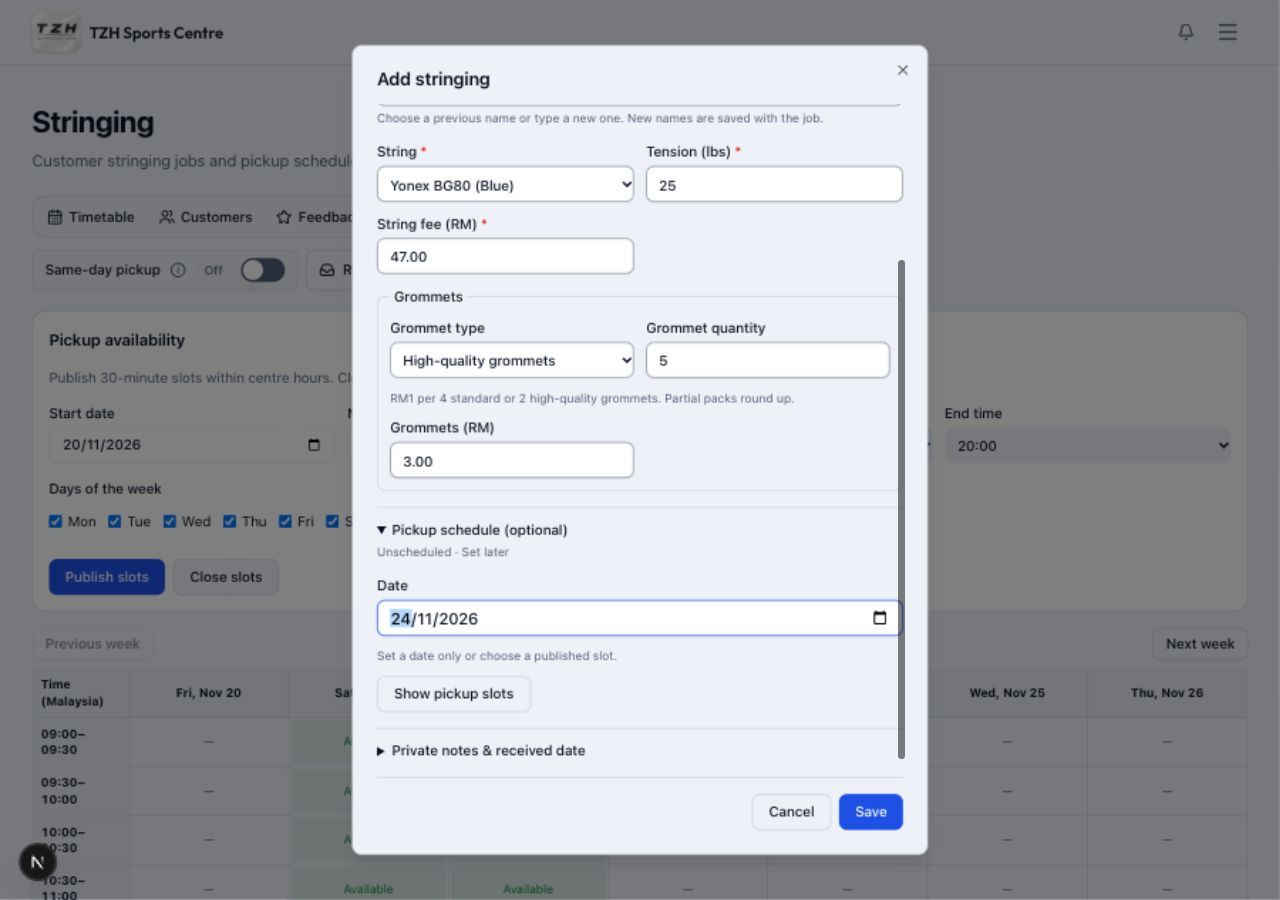
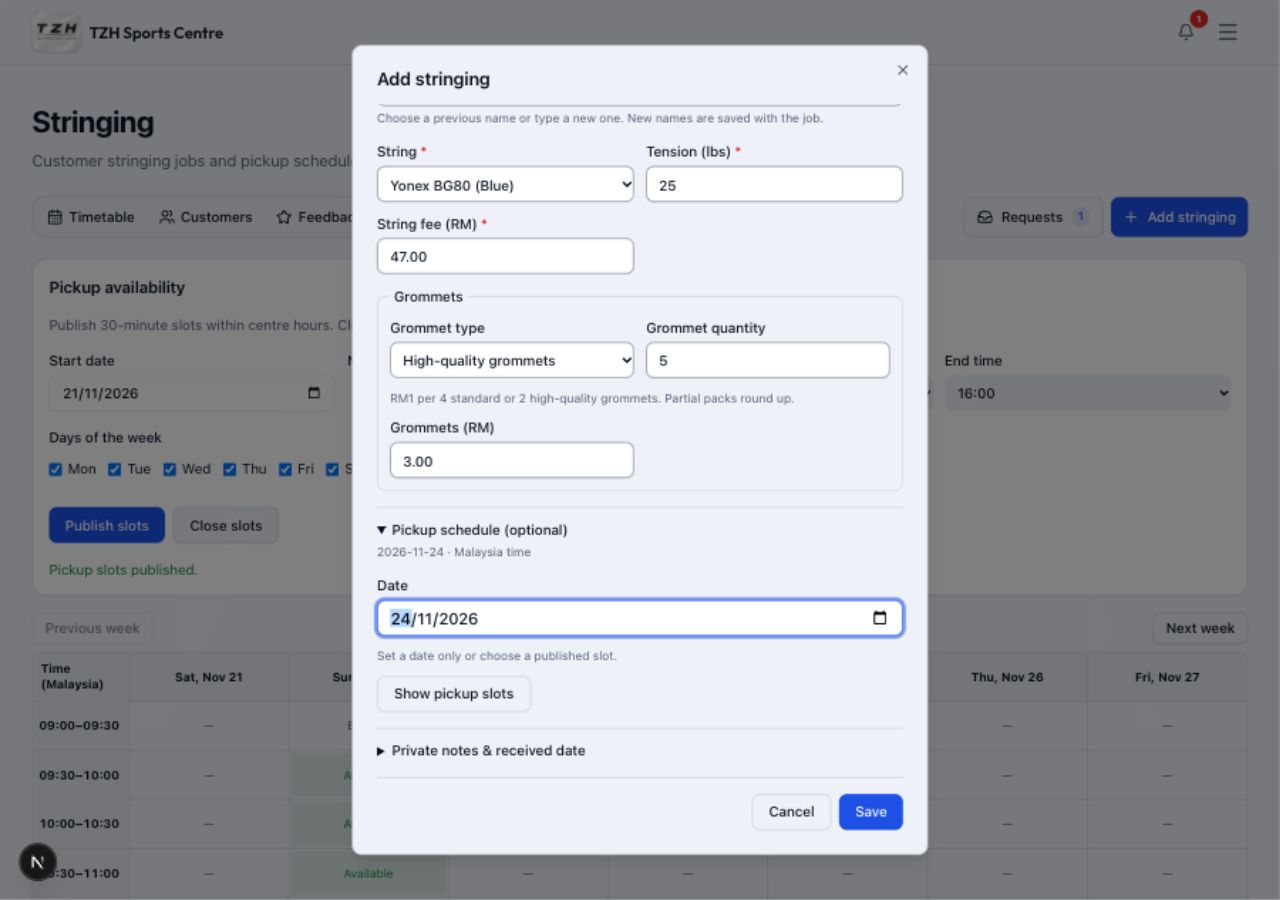
docs: replace same-day switch steps with published slots

diff --git a/website/stringing.md b/website/stringing.md
@@ -8,24 +8,18 @@ Open the step you need. Screenshots use fictional customers. Catalogue autofill,
 For a complete example, follow [one customer visit from request through collection, feedback and follow-up](stringing-complete-visit.md).
 
 <details>
-<summary><strong>Customer requests and same-day pickup</strong></summary>
+<summary><strong>Receive customer requests</strong></summary>
 
 **Incoming rackets.** Open **Requests**, find the customer and racket, then choose **Receive racket**. Check the actual received date, string fee and grommet fee. A matching catalogue string supplies a suggested price. Check the racket to determine the quantity. Choose **Grommet type** and enter **Grommet quantity** to fill the fee. Standard costs RM1 per four and high-quality costs RM1 per two. Partial packs round up. You can enter the actual fee directly. Confirm with **Receive racket**. The job leaves Requests and appears under Received in Customers. Payment is still outstanding.
 
 ![Receipt with catalogue price and calculated grommet fee](../images/stringing/receive-racket-quantity.jpg)
-
-**Same-day pickup today** is visible on every tab. Switch On while open to allow
-later-today customer pickup; switch Off at any time. It ends at closing, never
-carries into tomorrow, and switching Off preserves accepted requests. Publish a slot after the customer’s drop-off time for them to select it.
-
-![Visible mobile same-day policy](../images/stringing/same-day-policy-mobile.jpg)
 
 </details>
 
 <details>
 <summary><strong>Publish pickup availability</strong></summary>
 
-**Admin → Stringing → Pickup availability.** Set the start date, number of days, weekdays and hours. Use **7** days for one week or **14** for two, then select **Publish slots**. Check the grid and use **Next week** to see later dates. Staff and members can choose from the same 30-minute slots. Enter the range and select **Close slots** to stop new reservations in it. Existing pickups stay on the timetable.
+**Admin → Stringing → Pickup availability.** Set the start date, number of days, weekdays and hours. Use **7** days for one week or **14** for two, then select **Publish slots**. Check the grid and use **Next week** to see later dates. Staff and members can choose from the same 30-minute slots. Enter the range and select **Close slots** to stop new reservations in it. Existing pickups stay on the timetable. For same-day stringing, publish a slot that starts after the customer’s drop-off.
 
 ![Publishing two weeks of pickup slots](../images/stringing/pickup-availability-grid.jpg)
 
@@ -244,21 +238,6 @@ For example, **Stage → Requested** shows only requested jobs; **Reset filters*
 restores all visits. **Total spent** remains the customer’s lifetime paid total.
 
 ![Only jobs matching the selected stage](../images/stringing/customer-stage-filter.png)
-
-**Same-day pickup** is a compact On/Off switch in the toolbar. Tap the info icon
-for the daily reset details. **Requests** beside it opens requested jobs.
-
-![Compact same-day control and separate actions](../images/stringing/same-day-toolbar.png)
-
-![Same-day control on mobile](../images/stringing/same-day-toolbar-mobile.png)
-
-The Same-day pickup setting, Requests and Add stringing controls use matching heights. On phones, the setting sits above the two action buttons.
-
-The Off switch has a contrasting track and border in light and dark themes.
-
-![Same-day switch in light theme](../images/stringing/same-day-toolbar-light.png)
-
-![Same-day switch in dark theme](../images/stringing/same-day-toolbar-dark.png)
 
 <details>
 <summary>Open stringing work from Admin actions</summary>

diff --git a/website/customer-stringing.md b/website/customer-stringing.md
@@ -74,9 +74,7 @@ String model and tension have separate labels. A chosen string stays visible whe
 <details>
 <summary><strong>3 · Choose pickup</strong></summary>
 
-Normally choose a pickup date after the drop-off date. **Same-day pickup available
-today** permits later-today pickup when both dates are today, the centre is open, and a slot is available after drop-off. Staff can switch it off; if availability changes, your details stay and
-you can choose another available slot.
+Choose any available pickup slot after your planned drop-off. Both times can be on the same day. If the slot is taken while you are filling out the form, choose another available time.
 
 </details>
 

diff --git a/changelog/2026-11-16.md b/changelog/2026-11-16.md
@@ -21,3 +21,5 @@
 - [Free an upcoming stringing slot when a racket is ready](../website/stringing.md) so the next customer can book it. Awaiting deployment.
 
 - [Browse pickup weeks on a phone and change the selected string with the keyboard](../website/customer-stringing.md). Awaiting deployment.
+
+- [Use published slots for same-day stringing](../website/customer-stringing.md). Awaiting deployment.
